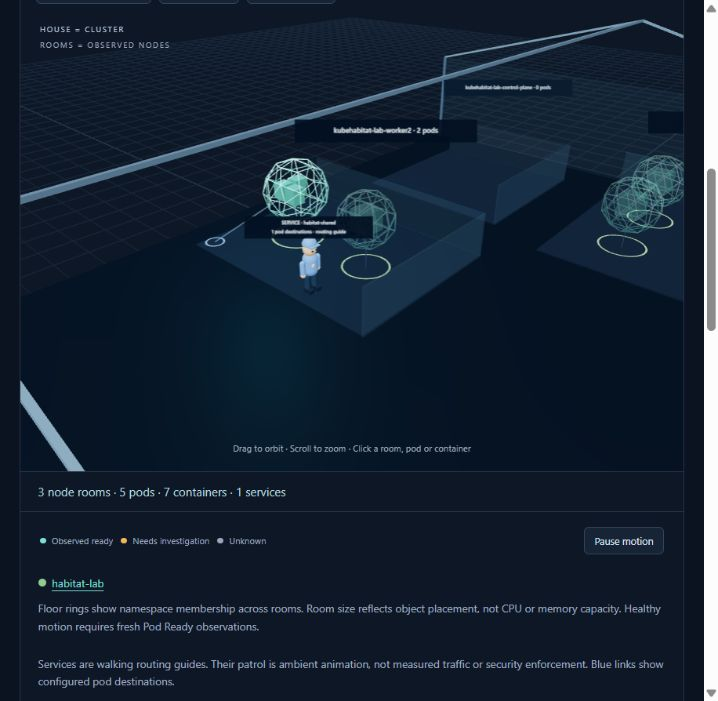
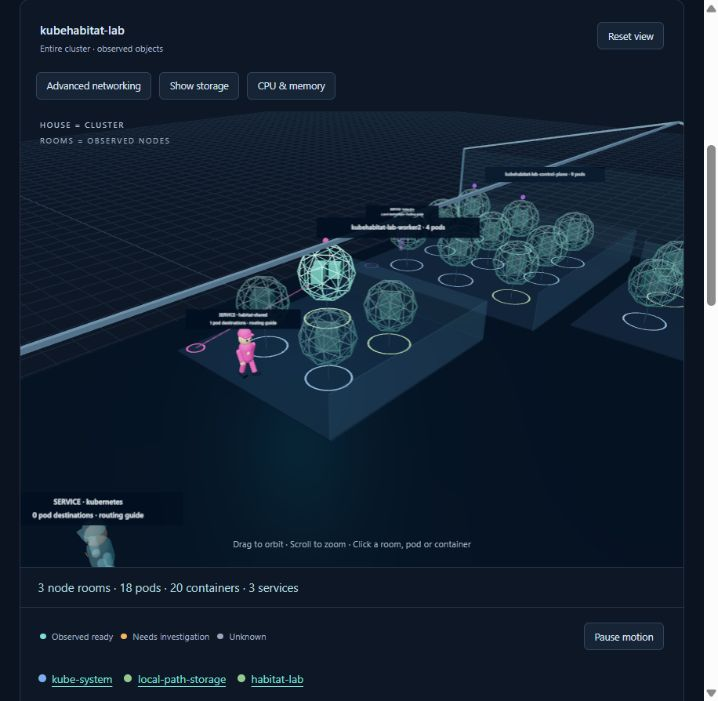
Match Service uniforms, route links and destination pod badges

diff --git a/frontend/src/LiveInventory.tsx b/frontend/src/LiveInventory.tsx
@@ -2,6 +2,7 @@ import { lazy, Suspense, useEffect, useMemo, useRef, useState } from 'react'
 import { liveKinds, useClusterSnapshot } from './useClusterSnapshot'
 import type { LiveKind, LiveResource } from './useClusterSnapshot'
 import { buildHabitatLayout, namespaceColor } from './habitatLayout'
+import { podServices, serviceColor } from './serviceGuide'
 import { SceneBoundary } from './SceneBoundary'
 import { policyCheck } from './networkPolicy'
 import {
@@ -404,7 +405,10 @@ export function LiveInventory() {
                 aria-pressed={selected === r.id}
                 onClick={() => select(r.id)}
               >
-                <span className="resource-glyph">
+                <span
+                  className="resource-glyph"
+                  style={r.kind === 'Service' ? { color: serviceColor(r) } : undefined}
+                >
                   {r.kind === 'Node'
                     ? '▣'
                     : r.kind === 'Namespace'
@@ -595,13 +599,28 @@ export function LiveInventory() {
                 </button>
               ))}
           </div>
+          <div
+            className="namespace-legend service-color-legend"
+            aria-label="Service uniform colours"
+          >
+            <span className="scope-note">Service uniforms</span>
+            {resources
+              .filter((r) => r.kind === 'Service')
+              .map((service) => (
+                <button key={service.id} className="text-link" onClick={() => select(service.id)}>
+                  <i style={{ background: serviceColor(service) }} />
+                  {service.name}
+                </button>
+              ))}
+          </div>
           <p className="scope-note scene-note">
             Floor rings show namespace membership across rooms. Room size reflects object placement,
             not CPU or memory capacity. Healthy motion requires fresh Pod Ready observations.
           </p>
           <p className="scope-note scene-note">
-            Services are walking routing guides. Their patrol is ambient animation, not measured
-            traffic or security enforcement. Blue links show configured pod destinations.
+            Uniform colours match the badges on each Service’s destination pods and its route links.
+            A pod served by several Services has several badges. Pod health colours and namespace
+            floor rings keep their own meanings. Walking is ambient routing animation.
           </p>
           {layers.network && (
             <section className="network-check" aria-label="Pod network policy check">
@@ -758,6 +777,26 @@ export function LiveInventory() {
                         </button>
                       </div>
                     ))}
+                </section>
+              )}
+              {current.kind === 'Pod' && (
+                <section className="relationship-list">
+                  <h4>Services serving this pod</h4>
+                  {podServices(layout, current.id).map((service) => (
+                    <button
+                      key={service.id}
+                      className="text-link"
+                      onClick={() => select(service.id)}
+                    >
+                      <span style={{ color: serviceColor(service) }} aria-hidden="true">
+                        ●{' '}
+                      </span>
+                      {service.name}
+                    </button>
+                  ))}
+                  {podServices(layout, current.id).length === 0 && (
+                    <p className="scope-note">No Service-to-pod destinations observed.</p>
+                  )}
                 </section>
               )}
               {current.kind === 'Pod' && (

diff --git a/frontend/src/LiveHabitatScene.tsx b/frontend/src/LiveHabitatScene.tsx
@@ -7,7 +7,7 @@ import { namespaceColor, sceneHighlights } from './habitatLayout'
 import type { HabitatLayout, PlacedPod, Point } from './habitatLayout'
 import type { LiveResource } from './useClusterSnapshot'
 import { storageFacts } from './habitatView'
-import { patrolPose, servicePatrol } from './serviceGuide'
+import { patrolPose, podServices, serviceColor, servicePatrol } from './serviceGuide'
 
 type Props = {
   layout: HabitatLayout
@@ -73,8 +73,8 @@ function ServiceGuide({
       )
       .every(props.fresh)
   const walking = props.motion && observed && destinationsFresh && route.roomIds.length > 0
-  const tint = observed ? '#79aaf0' : '#8594a6'
-  const opacity = highlighted ? 1 : 0.38
+  const tint = serviceColor(resource)
+  const opacity = (highlighted ? 1 : 0.38) * (observed ? 1 : 0.5)
   const destinations = new Set(
     props.layout.edges
       .filter(
@@ -168,7 +168,7 @@ function ServiceGuide({
           >
             <mesh position={[0, -0.21, 0]}>
               <capsuleGeometry args={[0.073, 0.29, 4, 8]} />
-              <meshStandardMaterial color="#28465f" transparent opacity={opacity} />
+              <meshStandardMaterial color={tint} transparent opacity={opacity} roughness={0.9} />
             </mesh>
             <mesh position={[0, -0.42, 0.055]}>
               <boxGeometry args={[0.14, 0.1, 0.23]} />
@@ -488,6 +488,7 @@ function Pod({
     props.onSelect(inner ? String(inner.object.userData.resourceId) : resource.id)
   }
   const tint = color(resource, props.fresh(resource))
+  const services = podServices(props.layout, resource.id)
   const ns = props.layout.resources.find(
     (r) => r.kind === 'Namespace' && r.name === resource.namespace,
   )
@@ -509,6 +510,23 @@ function Pod({
         <meshBasicMaterial color={namespaceColor(resource.namespace ?? '')} />
       </mesh>
       <group ref={group} position={pod.position}>
+        {services.map((service, index) => (
+          <mesh
+            key={service.id}
+            position={[(index - (services.length - 1) / 2) * 0.24, pod.radius + 0.12, 0]}
+            onClick={(event) => {
+              event.stopPropagation()
+              props.onSelect(service.id)
+            }}
+          >
+            <sphereGeometry args={[0.09, 12, 8]} />
+            <meshBasicMaterial
+              color={serviceColor(service)}
+              transparent
+              opacity={props.fresh(service) ? 1 : 0.45}
+            />
+          </mesh>
+        ))}
         <mesh onClick={choosePod}>
           <icosahedronGeometry args={[pod.radius, 1]} />
           <meshStandardMaterial
@@ -709,9 +727,11 @@ function House(props: Props) {
               from={from}
               to={to}
               tint={
-                networkKinds.has(layout.resources.find((r) => r.id === edge.from)!.kind)
-                  ? '#79aaf0'
-                  : '#e4be77'
+                layout.resources.find((r) => r.id === edge.from)?.kind === 'Service'
+                  ? serviceColor(layout.resources.find((r) => r.id === edge.from)!)
+                  : networkKinds.has(layout.resources.find((r) => r.id === edge.from)!.kind)
+                    ? '#79aaf0'
+                    : '#e4be77'
               }
             />
           ) : null

diff --git a/frontend/src/serviceGuide.ts b/frontend/src/serviceGuide.ts
@@ -1,4 +1,26 @@
 import type { HabitatLayout, Point } from './habitatLayout'
+import type { LiveResource } from './useClusterSnapshot'
+
+// Uniform identity is independent of health, pod replacements, ordering and namespace filters.
+export function serviceColor(service: LiveResource) {
+  let hash = 2166136261
+  for (const letter of `${service.namespace ?? ''}/${service.name}`) {
+    hash = Math.imul(hash ^ letter.charCodeAt(0), 16777619)
+  }
+  hash = Math.imul(hash ^ (hash >>> 16), 0x45d9f3b)
+  hash = Math.imul(hash ^ (hash >>> 16), 0x45d9f3b)
+  hash ^= hash >>> 16
+  return `hsl(${(((hash >>> 0) / 4294967296) * 360).toFixed(3)}, 68%, 62%)`
+}
+
+export function podServices(layout: HabitatLayout, podId: string) {
+  const identities = new Set(
+    layout.edges.filter((edge) => edge.to === podId).map((edge) => edge.from),
+  )
+  return layout.resources
+    .filter((r) => r.kind === 'Service' && identities.has(r.id))
+    .sort((a, b) => a.name.localeCompare(b.name) || a.id.localeCompare(b.id))
+}
 
 // One visual guide per Service; only observed endpoint pod identities determine its rooms.
 export function servicePatrol(layout: HabitatLayout, serviceId: string) {

diff --git a/docs/live-topology.md b/docs/live-topology.md
@@ -21,6 +21,14 @@ those relationships in the background; they do not need to occupy the default sc
 networking, storage and resource layers start hidden. Hiding a layer changes presentation, not
 discovery or the observed inventory.
 
+Uniform colour identifies the Service using its namespace and name. The same colour appears on its
+route links and small badges above its observed destination pods. Multiple Services targeting one
+pod produce multiple badges. Colours remain consistent across namespace filters, snapshot ordering
+and pod replacement. A clickable **Service uniforms** legend and each pod's **Services serving this
+pod** section expose the relationship by name as well as colour. Pod health colours and namespace
+floor rings retain their independent meanings; a stale Service keeps its colour with reduced
+opacity.
+
 1. Select a namespace to scope its pods and Services across their real node assignments.
 2. Select a pod to inspect its containers and existing volume attachments.
 3. Choose **Explore this pod’s storage** to reveal that pod’s volumes, claims, bound PVs and
@@ -71,9 +79,10 @@ describes provisioning. These relationships follow the
 
 ## Network signals
 
-Blue connectors show observed references: ingress to service, service to EndpointSlice targets, and
-the slice's pod identities. They do not animate as traffic. Endpoint readiness is available in the
-inspector; it does not certify application responses.
+Service-coloured connectors show their configured pod destinations. Blue connectors show other
+observed network references: ingress to service, service to EndpointSlice targets, and the slice's
+pod identities. They do not animate as traffic. Endpoint readiness is available in the inspector; it
+does not certify application responses.
 
 The **Pod → pod policy check** evaluates a direction, destination port and protocol. Source egress
 and destination ingress must both permit the declared connection. Rules across policies are

diff --git a/docs/phase-03-delivery.md b/docs/phase-03-delivery.md
@@ -84,7 +84,20 @@ The camera includes the full patrol bounds when focusing a Service, so walking d
 frame centred only on its starting marker. Further keyboard accessibility review remains open. The
 full automated browser suite remains locally unverified.
 
-## Further acceptance work
+## Service uniform colours on 2026-10-11
+
+Uniform colours now identify individual Services by namespace/name and match their route links and
+destination pod badges. Multiple Service memberships produce multiple badges. A named, clickable
+uniform legend and pod inspector relationships preserve navigation without relying only on colour.
+Pod health colours and namespace floor rings retain their previous meanings. Stale Service figures
+keep their identity colour with reduced opacity and no patrol animation.
+
+TypeScript, the production build and all 23 existing layout/policy tests pass. Manual browser review
+with 11/11 APIs observed confirmed distinct live swatches: shared Service pink, DNS purple and API
+Service cyan. The shared pod's badge and route link matched its guide's uniform. The refreshed
+[Service preview screenshot](assets/service-guide-preview.png) records the implemented scene.
+
+## Remaining acceptance work
 
 Refine house artwork with the user; verify camera and keyboard navigation across further cluster
 sizes; complete denied access/outage/recovery lab scenarios. Later-phase telemetry,
